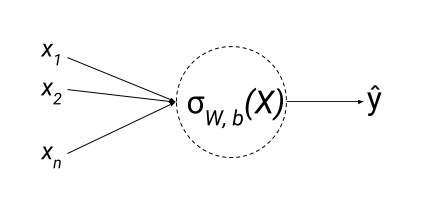
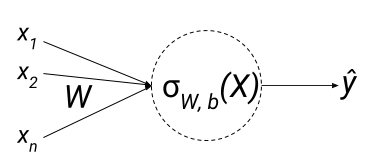
resolved comments v3

diff --git a/chapters/nn-method.tex b/chapters/nn-method.tex
@@ -58,7 +58,7 @@ Another adaptation of k nearest neighbours(kNN) for multi-label classification w
 (where $c_{j,x} :=$ the number of number of examples present in the neighbourhood of $x$ with $y_j = 1$; Probabilities calculated from the training data)
 
 \paragraph{Decision Trees (DT)}
-A decision tree use tree structure perform classification. In such a tree (i) each interior node tests one attribute, (ii) every branch corresponds to an attribute and (iii) each leaf node is the labelled with the class i.e. label/category. A classification using decision tree is presented in Listing~\ref{DT}.
+A decision tree use tree structure perform classification. In such a tree (i) each interior node tests one attribute, (ii) every branch corresponds to an attribute and (iii) each leaf node is the labelled with the class i.e. label/category. A classification using decision tree is presented in Listing~\ref{DT}. It is a strategy for approximating discrete-esteemed capacities that is powerful to load information and equipped for learning disjunctive expressions. The group of decision tree learning calculation incorporates generally utilized calculation, for example, ID3~\cite{quinlan1986induction}, CART~\cite{breiman2017classification} and C4.5~\cite{xiaoliang2009research}. These decision tree learning techniques seek totally expressive speculation space and hence keep away from the troubles of limited theory spaces. Their inductive inclination is an inclination for little trees over substantial trees. 
 \begin{lstlisting}[caption = Classification with Decision Trees, label = DT]
 Classify(x: instance, node: variable containing a node of DT)
     if node is a classification node then
@@ -69,7 +69,7 @@ Classify(x: instance, node: variable containing a node of DT)
 
 \end{lstlisting}
 
-It is a strategy for approximating discrete-esteemed capacities that is powerful to load information and equipped for learning disjunctive expressions. The group of decision tree learning calculation incorporates generally utilized calculation, for example, ID3~\cite{quinlan1986induction}, CART~\cite{breiman2017classification} and C4.5~\cite{xiaoliang2009research}. These decision tree learning techniques seek totally expressive speculation space and hence keep away from the troubles of limited theory spaces. Their inductive inclination is an inclination for little trees over substantial trees. 
+
 
 %\todo{still to add brief description about random forest and MLP}
 \paragraph{Random Forest}
@@ -79,7 +79,7 @@ All in all, decision trees are famous for machine learning assignments. In a ran
 
 \paragraph{Multi-layer perceptron (MLP)}
 Although neural networks are also explained in Section~\ref{section:architecture}, we define MLP here as we use it as a baseline classifier. 
-Multilayer feed forward networks, an essential class of neural networks~\cite{haykin1994neural}. Typically, the system comprises of a lot of tangible unit (source hubs) that establish the info layer, one or increasingly concealed layers of computational nodes, and a yield layer of calculation nodes. The input flag engenders through the system in a forward direction, on a layer-by-layer basis.These neural systems are regularly alluded to as multilayer perceptrons (MLPs), which speak to a speculation of the single-layer perceptron. 
+Multilayer feed forward networks, an essential class of neural networks~\cite{haykin1994neural}. Typically, the system comprises of a lot of tangible unit (source hubs) that establish the info layer, one or increasingly concealed layers of computational nodes, and a yield layer of calculation nodes. The input flag engenders through the system in a forward direction, on a layer-by-layer basis. These neural systems are regularly alluded to as multilayer perceptrons (MLPs), which speak to a speculation of the single-layer perceptron. 
 
 Multilayer perceptrons have been connected effectively to tackle some troublesome and differing issues via preparing them in an administered way with a profoundly prominent calculation known as back-engendering calculation. 
 A multilayer perceptron has three particular qualities: 
@@ -90,7 +90,7 @@ A multilayer perceptron has three particular qualities:
 
     \item The system displays high degrees of connectivity, determined by the neural connections of the system. 
 \end{enumerate}
-It is through the mix of these attributes together with the capacity to gain as a matter of fact through preparing that the multilayer perceptron determines its registering power.
+It is through the mixture of these attributes together with the capacity to gain as a matter of fact through preparing that the multilayer perceptron determines its registering power.
 
 \section{Deep Learning}
 The advent of deep neural networks (deep nets) in the last decade or so has led to foundation for generic alternatives to supervised learning, especially for the task of object classification. Deep nets eliminate the laborious process of feature engineering and automatically learn high level representations of input which suites best for the underlying classification problem. Although, the resurgence of deep nets was initially meant for the field of computer vision, recently it has also been applied to natural language processing tasks (NLP)\cite{bengio2003neural, collobert2008unified, mikolov2013distributed} especially through learning distributed representations of words as vectors in high dimensional space. These vectors help the model in guiding elementary tasks such as part-of-speech (POS) tagging and parsing as well as abstract tasks such as text classification and machine translation. Typically, the novel deep learning approaches for text classification rely on architectures based on convolutional neural networks (CNNs) or recurrent neural networks (RNNs)~\cite{young2018recent}. In Figure \ref{fig:dlarch}, you can see a typical deep learning based text classification architecture pipeline.
@@ -129,7 +129,7 @@ A word embedding $\mathcal{W} : \text{words} \rightarrow \mathbb{R}^n$ is a para
 \begin{figure}[!htb]
     \centering
     \includegraphics[scale=0.5]{Figures/word-embedding-matrix.png}
-    \caption{The figure illustrates how to obtain embedding of a particular word \emph{"cat``} from a word embedding matrix. The one-hot encoding vector of the word \emph{"cat``} is multiplied to the word embedding matrix to obtain the embedding vector for \emph{cat}.}
+    \caption{The figure illustrates how to obtain embedding of a particular word \emph{``cat"} from a word embedding matrix. The one-hot encoding vector of the word \emph{``cat"} is multiplied to the word embedding matrix to obtain the embedding vector for \emph{cat}.}
     \label{fig:word-embedding-matrix}
 \end{figure}
 
@@ -137,7 +137,7 @@ A word embedding $\mathcal{W} : \text{words} \rightarrow \mathbb{R}^n$ is a para
 \begin{figure}[!htb]
     \centering
     \includegraphics[scale=0.5]{Figures/Mikolov-GenderVecs.png}
-    \caption{The difference between male-female vector is constant. That is, $\mathcal{W}(``\text{woman}") - \mathcal{W}(``\text{man}") \simeq \mathcal{W}(``\text{aunt}") - \mathcal{W}(``\text{uncle}") \simeq \mathcal{W}(``\text{queen}") - \mathcal{W}(``\text{king}")$ (Image Source~\cite{mikolov2013distributed}).}
+    \caption{This figure illustrates the property of word embeddings where linear vector differences between male-female vector is preserved, that is, constant. That is, $\mathcal{W}(``\text{woman}") - \mathcal{W}(``\text{man}") \simeq \mathcal{W}(``\text{aunt}") - \mathcal{W}(``\text{uncle}") \simeq \mathcal{W}(``\text{queen}") - \mathcal{W}(``\text{king}")$ (Image Source~\cite{mikolov2013distributed}).}
     \label{fig:linear-vector}
 \end{figure}
 
@@ -152,7 +152,7 @@ The basic computational unit of a NN is a neuron (refer Figure~\ref{fig:neuron})
 \begin{figure}[!htb]
     \centering
     \includegraphics[scale=0.6]{Figures/neuron.png}
-    \caption{Neuron}
+    \caption{Typical neuron in a neural network, which can be intuitively thought of a building block of the underlying neural network.}
     \label{fig:neuron}
 \end{figure}
 \begin{figure}[!htb]
@@ -161,7 +161,7 @@ The basic computational unit of a NN is a neuron (refer Figure~\ref{fig:neuron})
     \caption{Vector inputs in the neuron}
     \label{fig:vectorinputs}
 \end{figure}
-\todo{include weight vector W in figure}
+%\todo{include weight vector W in figure}
 Each output from this neuron consists of an associated weight ($w$), which is calculated according to the relative importance with respect to other inputs. The node applies a weighted function to the sum of inputs.
 
 The intention behind the network is to learn these set of weights and to be able to control the strength and the influence of these parameters according to the problem that is being solved using the NN approach. We control such an effect of the parameters using an activation function which should be associated to a neuron. Using this function, the node computes the output given a set of inputs. One such activation function is Sigmoid: $\sigma(x) = \frac{1}{1+e^{-x}}$. A parameterized sigmoid function is $\sigma_{w,b}(x) = \frac{1}{1+e^{-wx+b}}$. The advantage of using a non-linear activation function such as sigmoid is that these networks are able to solve non-trivial problems using a relatively smaller number of parameters. 
@@ -170,18 +170,18 @@ There are also other types of non-linear activation functions such as: hyperboli
 %One limitation of the linear classification like linear regression or logistic regression is that it is not able to detect any correlation between two input variables. NNs are used to perform non-linear classification tasks, 
 %For example gradient descent which is a derivative of a linear function gives a smooth function, as nonlinear functions are a generalization of linear functions, 
 %see clearly in Figure~\ref{fig:linearclassification} and~\ref{fig:nonlinearclassification}. The neural network which uses a sigmoid function as their activation to perform computations $\sigma(x) = \frac{1}{1+e^{-x}}$, similarly a parameterized sigmoid function is: $\sigma_{w,b}(x) = \frac{1}{1+e^{-wx+b}}$ is shown in Figure~\ref{fig:neuron}. The inputs are given in the form of vectors (refer Figure~\ref{fig:vectorinputs}), if the network contains more than one layers, the composite functions are used to calculate the outputs. Other functions than sigmoid as activation like hyperbolic tangent  ($tanh$), Rectified Linear Unit($ReLU$) etc. 
-\begin{figure}[!htb]
-    \centering
-    \includegraphics[scale=0.2]{Figures/non-linear_classification.png}
-    \caption{A Linear Classification}
-    \label{fig:linearclassification}
-\end{figure}
-\begin{figure}[!htb]
-    \centering
-    \includegraphics[scale=0.2]{Figures/linear_classification.png}
-    \caption{A Non-linear Classification}
-    \label{fig:nonlinearclassification}
-\end{figure}
+% \begin{figure}[!htb]
+%     \centering
+%     \includegraphics[scale=0.2]{Figures/non-linear_classification.png}
+%     \caption{A Linear Classification}
+%     \label{fig:linearclassification}
+% \end{figure}
+% \begin{figure}[!htb]
+%     \centering
+%     \includegraphics[scale=0.2]{Figures/linear_classification.png}
+%     \caption{A Non-linear Classification}
+%     \label{fig:nonlinearclassification}
+% \end{figure}
 
 In a neural network architecture there are layers which are classified into three type which are mentioned below, all these layers contain nodes which are interconnected to each other in a dense manner also shown in Figure~\ref{fig:nn}:
 \begin{itemize}
@@ -196,66 +196,69 @@ In a neural network architecture there are layers which are classified into thre
     \label{fig:nn}
 \end{figure}
 
-While training the neural networks we need to see how every parameter effects on the performance. For this purpose we calculate the model performance using loss function also known as \emph{loss function}. A loss function is the difference between the model output ($\hat{Y}$) and the given label (Y) for a data point for example one of the ways is using mean square error method. 
+While training the neural networks we need to see how every parameter effects on the performance. For this purpose, we calculate the model performance using the function known to us as \emph{loss function}. A loss function is the difference between the model output ($\hat{Y}$) and the given label (Y) for a data point. For instance, one such loss function is mean square error method and is written as, 
 \begin{equation}
     L(\hat{Y},Y) = \frac{1}{2n}\sum_{i=1}^{n}(\hat{y}-y)^2
 \end{equation}
 Given enough hidden units (neurons), a two layered neural network that can approximately imitate any continuous function, over a wide range of activation functions. Although the challenge is to find right values of the parameters given the input data. This is where backpropagation comes into practice. 
-Backpropagation is done using gradient descent. The error gradient is calculated w.r.t. model parameters for each parameter. The parameters are changed in such a way that the parameters point in that direction where errors are increasing. 
+We know from high school calculus that for a function $y = f(x)$, $f'(x)$ or $\frac{dy}{dx}$ is an indicative of modifying the value of $x$, where the objective is to minimize $y = f(x)$. That is, in order to reduce $f(x)$, we have to modify $x$ in small steps with an opposite direction of the sign of $f'(x)$--this is gradient descent. Backpropagation is done using gradient descent. The gradients are calculated w.r.t. model parameters for each parameter. The parameters are modified in such a way that the parameters point in that direction where loss is decreasing. The parameters (weights) are modified using the following formulation, where $\eta$ (positive scalar) is a hyperparameter known as learning rate of the neural network model (determines how big a step to take in the direction opposite to the gradient)
 \begin{equation}
-    w_{n} = w_{n} - \eta\frac{dL}{dw_{n}}
+    w_{n}^{(t+1)} = w_{n}^{(t)} - \eta\frac{dL}{dw_{n}^{(t)}}
     \label{eq:parameterupdate}
 \end{equation}
 
-Summarizing from Figure~\ref{fig:oneepoch}, we give the input data $x$ to the neural network, $y$ is the input label of the data and $f_w(x)$ is the model which gives the output $\hat{y}$ ($\hat{y} = f_w(x)$). After this loss is calculated: $L(\hat{y}, y)$. This is the forward propagation. 
-Now in the backward  propagation: we calculate gradients $\frac{dL}{dW_{1:n}}$. Then the parameters are updated using the Equation~\ref{eq:parameterupdate}. 
+Summarizing from Figure~\ref{fig:oneepoch}, we give the input data $x$ to the neural network, $y$ is the input label of the data and $f_W(x)$ is the model which gives the output $\hat{y}$ ($\hat{y} = f_W(x)$). After this loss is calculated: $L(\hat{y}, y)$. This is the forward propagation. 
+Now in the backward  propagation: we calculate gradients $\frac{dL}{dW_{1:n}}$. Then the parameters are updated using the Equation~\ref{eq:parameterupdate} in each epoch. 
 
 \begin{figure}
     \centering
     \includegraphics[scale=0.5]{Figures/back-propagation.png}
-    \caption{A forward and backward pass in the neural network}
+    \caption{A forward and backward propagation in the neural network.}
     \label{fig:oneepoch}
 \end{figure}
 
 
+\subsubsection{CNN}\label{sec:cnn}
+Convolutional neural networks are a special kind of neural networks which employ a grid-like operation. The name ``convolution'' is used because it uses the mathematical operation convolution. In simple words: in a CNN convolution operation is used in at least one of the layers in place of general matrix multiplication~\cite{Goodfellow-et-al-2016}.
+They are widely used in the context of images~\cite{krizhevsky2012imagenet} where images are consider 2-D grid of pixels. Although, the architecture can be used if sentences or paragraphs or documents can be represented as matrices or vectors, as it is the case in images. Word embedding matrices typically act as pixel matrices of images in the context of text classification. One of the reasons as to why CNNs are successful is because of its inherent property of keeping a number of copies of the same type of neurons. 
+%This helps the model to have numerous neurons, while being able to process large complex models keeping same number of parameters. While writing programs in computer science we tend to write a function and keep calling it later on, the CNNs do a similar thing with the help of these large number of neurons. This in turn makes learning easier and reduces error. 
+CNN has been successfully applied in NLP tasks~\cite{dos2014deep, zeng2014relation}. 
 
-\section{CNN}\label{sec:cnn}
-They are widely used in the context of images~\cite{krizhevsky2012imagenet}. Although, the architecture can be used if sentences or paragraphs or documents can be represented as matrices or vectors, as it is the case in images. Word embedding matrices typically act as pixel matrices of images in the context of text classification. One of the reasons as to why CNNs are successful is because of its inherent property of keeping a number of copies of the same type of neurons. This helps the model to have numerous neurons, while being able to process large complex models keeping same number of parameters. While writing programs in computer science we tend to write a function and keep calling it later on, the CNNs do a similar thing with the help of these large number of neurons. This in turn makes learning easier and reduces error. CNN has been successfully applied in NLP tasks~\cite{dos2014deep, zeng2014relation}. 
-
-From the network point of view, CNN's are essentially several layers of convolutions (refer Figure~\ref{fig:CNN_layer} stacked upon each other with non-linear activation functions applied to the output of neurons in the same layer. 
+From the network point of view, CNN's are essentially several layers of convolutions (refer Figure~\ref{fig:CNN_layer}) stacked upon each other with non-linear activation functions applied to the output of neurons in the same layer. 
 \begin{figure}[!htb]
     \centering
     \includegraphics[scale=0.5]{Figures/cnn.png}
-    \caption{A CNN Layer, from~\cite{Goodfellow-et-al-2016}}
+    \caption{The figure illustrates the components of a typical convolutional neural network (CNN). The figure in the left views CNN as small number of complex layers, where within each layer a number of operations are applied. While on the right, CNN is viewed as a larger number of simple layers performing elementary operations.}
     \label{fig:CNN_layer}
 \end{figure}
 A typical layer in a CNN has three stages: (i) convolution operation (refer Figure~\ref{fig:convolution}), (ii) a non-linear activation like rectified linear unit and (iii) a pooling function which lists the set of output with certain statistical explanation of outputs of neighbourhood. These three stages accommodate in the standard feed-forward architecture of linear and non-linear activations. As we can see from Figure~\ref{fig:CNN_layer},
 the first stage is linear and the second layer when combined with the third stage form a non-linear activation. 
-One of the most used pooling statistics is \emph{max-pooling}, see Figure~\ref{fig:maxpool}. 
+One of the most used pooling statistics is \emph{max-pooling}. Most commonly, max-pooling is used as a downsampling technique with for instance, say $2 \times 2$ dimension filter and stride equal to 2 , (Figure~\ref{fig:maxpool}), which reduces the representation size and decreases computational and statistical burden on the next layers.
 
 
 
 \begin{figure}[!htb]
-    \centering
-    \includegraphics[scale=0.65]{Figures/max-pooling.png}
-    \caption{Max-pooling, Source: \url{http://cs231n.github.io/assets/cnn/maxpool.jpeg}}
+    % \centering
+    \includegraphics[width=0.6\textwidth, center]{Figures/max-pooling.png}
+    \caption{This figure illustrates the operation of max-pooling to summarize the feature maps.}
     \label{fig:maxpool}
 \end{figure}
 Figure~\ref{fig:convolution} illustrates that convolution is a binary operation that involves two operands namely, some text and a predefined kernel or filter, both of which are represented as matrices containing real numbers.
 \begin{figure}[!htb]
-    \centering
-    \includegraphics[scale=0.5]{Figures/convolution.png}
-    \caption{Convolution}
+    % \centering
+    \includegraphics[width=0.6\textwidth, center]{Figures/convolution.png}
+    \caption{This figure illustrates the operation of convolution on a 2D image. Boxes and arrows are drawn which indicate how the convolution takes place when the kernel/filter is applied to the upper-left region of the input.}
     \label{fig:convolution}
 \end{figure}
 Typically, the matrix representation of text comprises of the word vectors of tokens that constitute it, that is, the word embedding matrix. The objective of the kernel is to operate on all contiguous segments of the text using a sliding window and produce real numbers of cardinality that is equal to the number of contiguous segments (in text). This sequence of real numbers is called a feature map and is associated with a particular kernel being used to compute it. Generally, different kernels produce different feature maps that can be used as features for the task of text classification. The feature maps are then fed into a non-linear activation function as input, typically, softmax (function that takes $l$ real values as input and normalizes it into a probability distribution consisting of $l$ probabilities)   in our use case that outputs class or label probability estimates. The main idea here is to learn the matrix representations of kernels that in turn provide better feature maps, which optimizes the objective function efficiently. The learning takes place by predicting labels for training data and make adequate modifications to the kernel matrix through the back propagation algorithm that minimizes the loss function, that is, minimizes the conditional log-likelihood of training data. In the aforementioned abstract elucidation, we have omitted the technical details pertaining to CNNs like mathematical definition of convolution, the objective function and regularization. For the sake of completeness, we discuss these points in detail in the next section.
 
-\subsection{CNN Model Description}
+\paragraph{CNN Model Description}
 The architecture of a CNN model with two layers including one convolution layer and a densely connected output layer is depicted in Figure~\ref{fig:Cnn_one_layer}.
 \begin{figure}[!htb]
-    \centering
-    \includegraphics[scale=0.45]{Figures/cnn-model-example.png}
-    \caption{Convolutional Neural Network with one convolution layer}
+    % \centering
+    % \includegraphics[scale=0.45]{Figures/cnn-model-example.png}
+    \includegraphics[width=1\textwidth,left]{Figures/cnn-model-example.png}
+    \caption{This figure illustrates a CNN with one convolution layer that is precisely used in the experimental setup in this thesis in the context of biomedical abstracts.}
     \label{fig:Cnn_one_layer}
 \end{figure}
 The basic component of the model is the word vector $\mathbf{x} \in \mathbb{R}^d$, where $d$ is the dimension of the word vectors. An abstract is represented as a matrix $A \in \mathbb{R}^{n \times d}$, where $n$ is the number of words in it. As mentioned earlier in the section~\ref{section:architecture}, each row corresponds to the word vector for the corresponding token or word. For the sake of brevity, we assume that the ground truth (label) for the abstract is $y \in \mathbb{R}^2$ such that $y_2 = 1$ and $y_1 = 0$ ($y_2 = 0$ and $y_1 = 1$) when we are training on a positive (negative) instance. This precisely aligns with the Figure~\ref{fig:Cnn_one_layer} with two output nodes of the final layer for the two classes (positive or negative) for each binary classifier. In this project we perform classification for 48 classes. 
@@ -316,10 +319,13 @@ where $\circ$ refers to hadamard product (element-wise multiplication) and $\mat
 % This operation is essential because during training, only $80\%$ of the edges are active, that is obviously not true when we test the model. 
 
 
-\section{RNN}
-RNNs are widely used in natural language models because of the ambiguity of it. As a human being, every time when we try to solve something we don't reboot the brain, instead we remember things and try to build on from that. The traditional neural networks cannot have persistence, for example if we want to predict what word would come next in the sentence or when we want to do a prediction of the next term in the sequence. In such cases we need the information of what happened previously stored in the network, the RNNs are able to do such computations because they have loops in the network as can be seen in the Figure~\ref{fig:rnnarch}~\cite{chung2015recurrent}. Whereas when we deal with natural language there is context required for predicting what comes next, sometimes there is a difference between that there is a big difference between the relevant information and the point where it is needed. RNNs do not always perform best when handling ``long term dependencies''~\cite{bengio1994learning}. To overcome this problem, Long Short Term Memory networks (LSTMs) were introduced by~\cite{hochreiter1997long} that are a special kind RNNs which can handle learning the long term dependencies. 
+\subsubsection{RNN}
+Recurrent neural networks~\cite{rumelhart1988learning} are used for processing sequential data. Since language is sequential in nature because when we deal with natural language there is context required for predicting what comes next. RNNs are widely used in natural language models as it used to process sequential data.
+As a human being, every time when we try to solve something we don't reboot the brain, instead we remember things and try to build on from that. The traditional neural networks cannot have persistence they always re-learn for scratch unlike human brain, for example if we want to predict what word would come next in the sentence or when we want to do a prediction of the next term in the sequence. In such cases we need the information of what happened previously stored in the network, the RNNs are able to do such computations because they have loops in the network as can be seen in the Figure~\ref{fig:rnnarch}~\cite{chung2015recurrent}. They try to keep track of the information that was learnt previously. 
+%Whereas when we deal with natural language there is context required for predicting what comes next, sometimes there is a difference between that there is a big difference between the relevant information and the point where it is needed. 
+RNNs do not always perform best when handling ``long term dependencies''~\cite{bengio1994learning}. To overcome this problem, Long Short Term Memory networks (LSTMs) were introduced by~\cite{hochreiter1997long} that are a special kind RNNs which can handle learning the long term dependencies. 
 
-\subsection{RNN Model Description}
+\paragraph{RNN Model Description}
 Figure~\ref{fig:rnnarch} introduces the RNN architecture where the input $x_t$ is fed is a hidden layer at time step $t$. 
 \begin{figure}
     \centering
@@ -373,7 +379,7 @@ To overcome the problem of long-term dependencies, LSTM was developed, that is, 
 \begin{figure}[!htb]
     \centering
     \includegraphics[scale=0.55]{Figures/lstm-unit.png}
-    \caption{A LSTM unit}
+    \caption{The detailed internals of a LSTM unit}
     \label{fig:lstmunit}
 \end{figure}
 
@@ -391,6 +397,6 @@ Finally, we explain the structure and the intuition behind LSTM units below:
 	\item \textbf{Output Gate: } Its objective to the separate final memory $c^{(t)}$ from the hidden state. $c^{(t)}$ might not necessarily contain only relevant information all the time that is required to be saved by the hidden state. Moreover, as hidden states are used in every gate of an LSTM unit, the output gate makes an assessment regarding the importance of the information to be stored in the hidden state $h_t$. This produces $o_t$ and this is to gate the point-wise $tanh$ of the memory.
 \end{itemize}
 
-The bi-directional version of RNN or LSTM, at each time-step $t$, maintains two hidden layers, one for left-to-right propagation and another for right-to-left propagation. Clearly, this consumes two times as much memory as RNNs. The final output $\widehat{y}_t$ is obtained by combining the scores computed by both the hidden states (refer to Figure~\ref{fig:lstmunit}).
+The bi-directional version of RNN or LSTM, at each time-step $t$, maintains two hidden layers, one for left-to-right propagation and another for right-to-left propagation. Clearly, this consumes two times as much memory as RNNs. The final output $\widehat{y_t}$ is obtained by combining the scores computed by both the hidden states.
 
 

diff --git a/chapters/results.tex b/chapters/results.tex
@@ -241,22 +241,22 @@ decreases. The models are trained using the Adam optimizer~\cite{kingma2014adam}
 
 \begin{table}[!htb]
     \centering
-    \begin{tabular}{|l|c|c|c|}
+\begin{tabular}{|l|c|c|}
 \hline
-\multicolumn{1}{|c|}{} & \textbf{Epochs} & \textbf{\begin{tabular}[c]{@{}c@{}}Validation \\ Accuracy\end{tabular}} & \textbf{\begin{tabular}[c]{@{}c@{}}Sequence\\  Length\end{tabular}} \\ \hline
-\textbf{BiLSTM} & 65 & 0.623 & 200 \\ \hline
- & 65 & 0.628 & 150 \\ \hline
- & 65 & \textit{\textbf{0.697}} & 250 \\ \hline
-\textbf{CNN} & 60 & \textit{\textbf{0.837}} & 200 \\ \hline
- & 60 & 0.76 & 150 \\ \hline
- & 60 & 0.803 & 250 \\ \hline
+\multicolumn{1}{|c|}{} & \textbf{\begin{tabular}[c]{@{}c@{}}Validation \\ Accuracy\end{tabular}} & \textbf{\begin{tabular}[c]{@{}c@{}}Sequence\\  Length\end{tabular}} \\ \hline
+\textbf{BiLSTM} & 0.623 & 200 \\ \hline
+ & 0.628 & 150 \\ \hline
+ & \textit{\textbf{0.697}} & 250 \\ \hline
+\textbf{CNN} & \textit{\textbf{0.837}} & 200 \\ \hline
+ & 0.76 & 150 \\ \hline
+ & 0.803 & 250 \\ \hline
 \end{tabular}
     \caption{Results for deep neural networks for predicting super class}
     \label{tab:DLsuperclass}
 \end{table}
 
 Here both the BiLSTM and CNN outperform all the baseline classifiers. Overall, the CNN has highest performance accuracy with the sequence length of 200. Another interesting observation is that when the sequence length is increased to 250 the accuracy of the BiLSTM increases, whereas one would think it should decrease because LSTMs tend to forget what happened previously or ahead when the sequence length is increased. 
-%One explanation behind this could be that the disease words occur towards the end in the abstract. 
+One explanation behind this could be that the disease words occur towards the end in the abstract. When we use the last two sentences per abstract for predicting the super class in BiLSTM the accuracy decreases to 48.4\%. Therefore, a generalization of such kind cannot be made. 
 
 \begin{table}[!htb]
     \centering
@@ -341,12 +341,17 @@ Abstract 3 & [ ] & \begin{tabular}[c]{@{}l@{}}`Immune System Diseases', `Hemic a
     \label{tab:preidictions_lstm}
 \end{table}
 
-The predictions of the three abstracts are presented in Tables~\ref{tab:predictions_cnn} and~\ref{tab:preidictions_lstm}. From the predictions it can be seen when we use a large number of labels in most of abstract there is no prediction at all fo both CNN and BiLSTM. For this we need a larger data for the models to train on. If we get a larger annotated set, the model will be able to learn in a much better way as it would have seen a lot of examples for such a large set of labels.  
+The predictions of the three abstracts are presented in Tables~\ref{tab:predictions_cnn} and~\ref{tab:preidictions_lstm}. From the predictions it can be seen when we use a large number of labels in most of abstract there is no prediction at all for both CNN and BiLSTM. For this we need a larger data for the models to train on. If we get a larger annotated set, the model will be able to learn in a much better way as it would have seen a lot of examples for such a large set of labels.  
 
 Whereas when predicting a super class CNN is very accurate as it would have seen enough examples to learn which label would fit where. Similarly, BiLSTM is accurate more than 50\% of times overall even in some cases where CNN isn't, for example in Abstract 3. This could be because in this case the context of the language would be required more rather than in the other cases. For example: the abstract 3 talks about immune system diseases so in this case the BiLSTM learns this whereas the CNN would not be able to do that.  
 In some cases, no result comes because the last layer is softmax layer and the probability of each category would be less than 0.5, so the model does not output any disease.
 
-From the results we saw that CNN gives promising results in both experimental setups - predicting disease terms and predicting super classes. If we want to involve more metadata categories like tissue, cell line etc, it would be easily incorporated in the model as we train a multi-label classification problem. 
+For evaluate whether there is any bias present in the predictions for super classes, we perform an analysis of the frequency of the labels. First we compute the frequency of each label for the whole dataset, then specifically for the validation set. This is done for both the CNN and BiLSTM. 
+From the analysis, it was observed that the super class ``Congenital, Hereditary, and Neonatal Diseases and Abnormalities'' has the highest frequency of occurrence (639). Therefore, even in the validation set for CNN and for BiLSTM both, it has the highest frequency. Note that in the validation set, the frequency is calculated separately for predictions and the actual labels. In the predictions the frequency was 139 whereas in the actual labels it occurs 125 times for BiLSTM. Similarly, for CNN the frequency in actual labels was 144 whereas the frequency is 126 in the predicted labels. From the frequency we observe that the model predicts better if the label has higher number of occurrences. 
+
+We perform a similar analysis for the less frequently occurring labels: ``Bacterial Infections and Mycoses''. This label has a frequency of 23 in the entire label set. After looking into the validation set for both CNN and BiLSTM, we observed that in CNN it is predicted 7 times but actually it occurs only once. For BiLSTM, it is predicted only once, but in actual labels it has a frequency of 7. Since the overall occurrence of ``Bacterial Infections and Mycoses'' is not higher the predictions are not as accurate as we observe before with the label ``Congenital, Hereditary, and Neonatal Diseases and Abnormalities''.  
+
+From this analysis we see that a large set of disease names has one particular super class therefore there is a bias when we try to predict these super classes. Moreover, the input corpus contains 793 abstracts in total, which only gives a particular subset of diseases. Hence there is a bias in prediction related to the frequency of occurrences when extracting the super classes. From the results we saw that CNN gives promising results in both experimental setups -- predicting disease terms and predicting super classes. If we want to involve more metadata categories like tissue, cell line etc, it would be easily incorporated in the model as we train a multi-label classification problem. 
 
 
 

diff --git a/chapters/introduction.tex b/chapters/introduction.tex
@@ -8,7 +8,7 @@ During the last decade or so journals, investigators, funding agencies have real
 However, to enable reuse there is an urgent need to understand the structure of datasets and the experimental conditions under which they were produced~\cite{borgman2012conundrum}.
 That is, there is an urgent need for accurate, structured and complete description of the data -- defined as \emph{metadata}.
 
-While there exists an abundance of open biomedical data, the lack of high quality metadata makes it challenging for others to find relevant datasets and to reuse them for another purpose. 
+While there exists an abundance of open biomedical data, the lack of high quality metadata makes it challenging for others to find relevant datasets and to reuse them for another purpose~\cite{gonccalves2017metadata, Hu2017}. 
 This, in turn, can facilitate a data-driven approach by combining and analyzing similar data to uncover novel insights or even more subtle trends in the data.
 These insights can then be formed into hypothesis that can be tested in the laboratory~\cite{barrett2012ncbi}.
 In particular, metadata are useful to understand the nature and provenance of the data. A common approach to improving the quality of metadata relies on expensive human curation, which itself is time consuming and also prone to error.
@@ -16,10 +16,11 @@ Poor metadata leads to the problems of (i) interpretability - can we understand 
 
 The recently published FAIR principles specify desirable criteria that metadata and their corresponding datasets should meet to be Findable, Accessible, Interoperable, and Reusable~\cite{Wilkinson2016}.
 For data to be FAIR, metadata needs to be accurate and uniform (relying on controlled terms where possible). However, currently there is a large amount of biomedical metadata, which is of poor quality, that is, it is extremely heterogeneous and which makes data re-use extremely difficult~\cite{gonccalves2017metadata}. 
-Khatri and colleagues~\cite{khatri2013common}, demonstrated the power of integrating data from publicly available sources where investigators had used different assay technologies, resulting in the identification of a common mechanism of transplant rejection using only publicly available gene-expression data. They then showed that the gene signatures associated with this mechanism improved diagnosis, and ultimately led to identification of two drugs previously approved by the FDA that can be repurposed to treat transplant rejection,
+Although there has been a lot of work done in meta-analysis of public omics data. One particular example demonstrated by Khatri and colleagues~\cite{khatri2013common}, depicts the power of integrating data from publicly available sources where investigators had used different assay technologies, resulting in the identification of a common mechanism of transplant rejection using only publicly available gene-expression data. 
+They then showed that the gene signatures associated with this mechanism improved diagnosis, and ultimately led to identification of two drugs previously approved by the FDA that can be repurposed to treat transplant rejection,
 For Khatri and colleagues, a key impediment to their success was the low quality of the metadata associated with gene expression datasets. Their work required them to tediously examine and curate each and every dataset and associated publication to create metadata pertaining to the organism, tissue, protocol, and other essential parameters, so that they could use datasets that specifically met their inclusion criteria.
 
- One of the major challenge towards assessing and improving  the quality of biomedical metadata is the size of data that is present.  Zooming in to the problem that is being dealt over here - let's take an example of Gene Expresssion Omnibus (GEO) dataset~\cite{edgar2002gene} which is a widely used database for cross-species gene expression data. Currently users can submit data to GEO via three ways: (i) Spreadsheets, (ii) SOFT format (plain text), (iii) MINiML format\footnote{`MIAME Notation in Markup Language' format} (XML).
+ One of the major challenge towards assessing and improving  the quality of biomedical metadata is the size of data that is present.  Delving further into the problem at hand -- let's take an example of Gene Expression Omnibus (GEO) dataset~\cite{edgar2002gene} which is a widely used database for cross-species gene expression data. Currently users can submit data to GEO via three ways: (i) Spreadsheets, (ii) SOFT format (plain text), (iii) MINiML format\footnote{`MIAME Notation in Markup Language' format} (XML).
 When users submit data to GEO via a spreadsheet, it requires them to fill out a metadata template that follows the guidelines set out by the Minimum Information About a Microarray Experiment (MIAME) guidelines~\cite{brazma2001minimum}. GEO allows users to specify metadata in the form of textual key: value pairs (e.g. \emph{sex: female}). However, since there is no structured vocabulary or format available, the 44,000,000+ \emph{key: value} pairs suffer from numerous quality issues such as:
 \begin{itemize}
 \item minor spelling discrepancies\\ (e.g. \verb|age at diagnosis (years)|, \verb|age at diagonosis (years)|; 

diff --git a/chapters/conclusion.tex b/chapters/conclusion.tex
@@ -39,7 +39,8 @@ In this project we only look at the prediction of metadata key type `disease'. W
 Since we used a limited number of abstracts therefore, to predict the disease names we did not get a better results in the first experiment. With a larger dataset, the model sees would be able to see a larger set of examples while training which in-turn would provide better results.
 
 \subsection{Research Question 3 \& 4}
-We used baseline multi-label classification with two different feature extraction techniques - bag of words and TF-IDF. We saw that the TF-IDF feature extraction technique worked better when predicting the disease terms, but the bag of words technique worked better when predicting super classes (refer Chapter~\ref{chap: results}). The results might improve if we did some more in-depth feature engineering, but even with that it is unlikely that the performance exceeds the CNN.
+We used baseline multi-label classification with two different feature extraction techniques - bag of words and TF-IDF. We saw that the TF-IDF feature extraction technique worked better when predicting the disease terms, but the bag of words technique worked better when predicting super classes (refer Chapter~\ref{chap: results}). 
+%The results might improve if we did some more in-depth feature engineering, but even with that it is unlikely that the performance exceeds the CNN.
 
 From the results we saw that rather than following the traditional methods of extracting features in the dataset and then select a machine learning model, if we use a pre-trained word embedding we get better results. In this case we used GloVe: Global Vectors for Word Representation~\cite{pennington2014glove}. 
 

diff --git a/main.tex b/main.tex
@@ -6,7 +6,7 @@
  \nameMastersProgramme{Data Science for Decision Making}  
 %\nameMastersProgramme{Artificial Intelligence}
 \committee{Dr. Rachel Cavill \\ Dr. Jerry Spanakis \\ Dr. Amrapali Zaveri (IDS) \\ Dr. Michel Dumontier (IDS)}
-\date{September 9, 2018}
+\date{February 28, 2019}
 
 \usepackage[utf8]{inputenc}
 \usepackage[english]{babel}
@@ -14,6 +14,8 @@
 
 % Our images were all over the place, commenting this out seems to fix this mostly
 %\usepackage{nonfloat}
+% \usepackage{float}
+\usepackage[export]{adjustbox}
 \usepackage{spverbatim}
 \usepackage{caption}
 \usepackage{natbib}
@@ -40,6 +42,7 @@
 \lstset{numbers=left,numberstyle=\tiny,basicstyle=\ttfamily\scriptsize, tabsize=1, stringstyle=\small, framexleftmargin=1pt, captionpos=b, frame=single, breaklines=true}
 \lstdefinestyle{rdf}{numberblanklines=true, morekeywords={}}
 \lstdefinestyle{sparql}{numberblanklines=true, morekeywords={SELECT, WHERE, FILTER, GROUP, BY, IN, AS, SERVICE, GRAPH, CONSTRUCT, WITH}}
+\setcounter{secnumdepth}{5}
 
 
 \begin{document}
